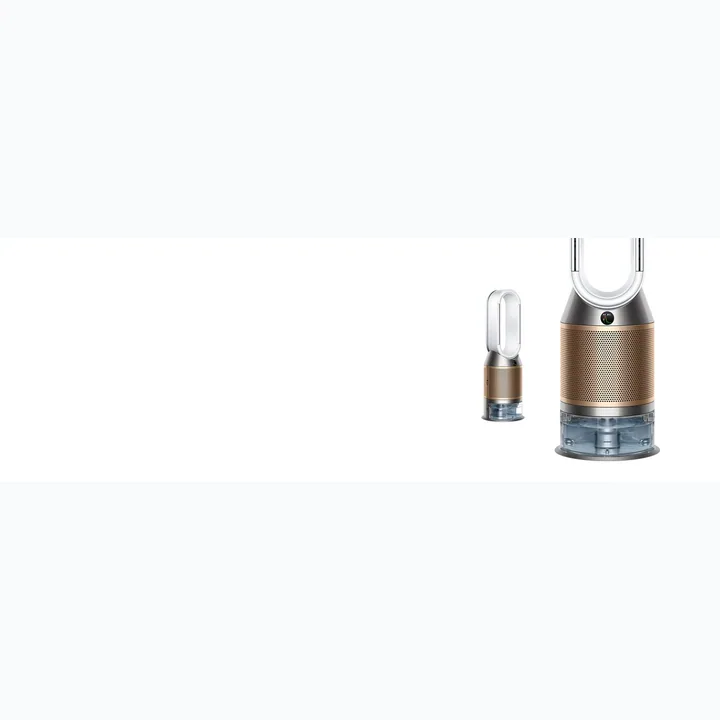
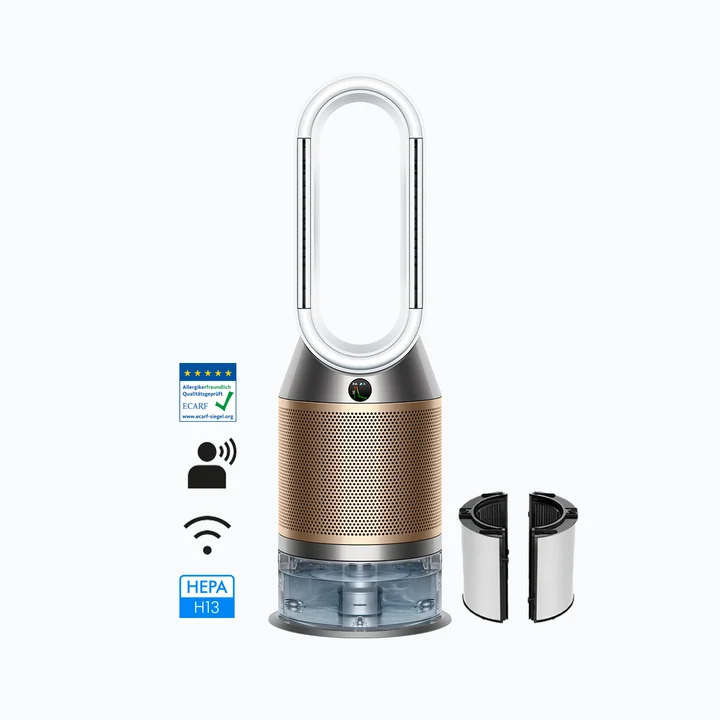
feat: improve product image coverage

diff --git a/scripts/sync-model-images.ts b/scripts/sync-model-images.ts
@@ -122,6 +122,8 @@ function extractMeta(html: string, pageUrl: string) {
 }
 
 const directImages: Record<string, string> = {
+  "roborock-s10-maxv-ultra":
+    "https://kr.roborock.com/cdn/shop/files/saros_20_sonic_White_ID.png?v=1769073475",
   "coway-ap-2219k":
     "https://img.danuri.io/catalog-image/868/298/010/ada7c912cfcc489fb3c8c8a5852e5b50.jpg",
   "coway-ap-1521b":
@@ -133,10 +135,14 @@ const directImages: Record<string, string> = {
   "dyson-hp09":
     "https://dyson-h.assetsadobe2.com/is/image/content/dam/dyson/leap-petite-global/products/ec/527e/variants/sco/HP09_WHSGLD_Primary_800x1200.png?fmt=png-alpha&scl=1",
   "dyson-tp09":
-    "https://dyson-h.assetsadobe2.com/is/image/content/dam/dyson/leap-petite-global/products/machine-first-testing/support/purifiers/tp09-support-banner.jpg?wid=1920",
+    "https://dyson-h.assetsadobe2.com/is/image/content/dam/dyson/leap-petite-global/markets/poland/product/ec/hero-locale/369876-01.png?fmt=png-alpha&scl=1",
   "dyson-ph04":
-    "https://dyson-h.assetsadobe2.com/is/image/content/dam/dyson/leap-petite-global/markets/korea/support/s-a/KR_Support_PH04.jpg?wid=1920",
+    "https://dyson-h.assetsadobe2.com/is/image/content/dam/dyson/leap-petite-global/markets/poland/product/ec/hero-locale/379491-01.png?fmt=png-alpha&scl=1",
   "skmagic-acl130z0skpn": "https://static.skmagic.com/image/goods/G000069281/G000069281_2.png",
+  "wells-al106": "https://www.kyowonwells.com/upload/product/202010/472179423.png",
+  "wells-an730": "https://www.kyowonwells.com/upload/product/202101/00218467608.png",
+  "wells-an734": "https://www.kyowonwells.com/upload/product/202101/00218467608.png",
+  "wells-am315": "https://www.kyowonwells.com/upload/product/202010/993350495.png",
   "wells-aq107": "https://www.kyowonwells.com/upload/product/202301/00789954532.png",
   "blueair-5240i": "https://cdn.shopify.com/s/files/1/0881/6030/5438/files/1_20_1.png?v=1734554713",
   "blueair-5210i": "https://cdn.shopify.com/s/files/1/0881/6030/5438/files/1_20_1.png?v=1734554713",
@@ -172,8 +178,17 @@ const directImages: Record<string, string> = {
     "https://kr.object.ncloudstorage.com/w2r-commerce-winix/product/202603/260311100459969-b292e5e1641142c0b7219a98549ee48b.png",
 };
 
-const excludedImageIds = new Set(["roborock-s10-maxv-ultra"]);
-const trimImageIds = new Set(["dreame-l10s-pro-ultra-heat"]);
+const excludedImageIds = new Set<string>();
+const trimImageIds = new Set([
+  "dreame-l10s-pro-ultra-heat",
+  "dyson-tp09",
+  "dyson-ph04",
+  "wells-al106",
+  "wells-an730",
+  "wells-an734",
+  "wells-am315",
+  "roborock-s10-maxv-ultra",
+]);
 
 const outputDir = path.resolve("public/images/models");
 await mkdir(outputDir, { recursive: true });
@@ -225,7 +240,12 @@ for (const model of models) {
     const input = Buffer.from(await imageResponse.arrayBuffer());
     const destination = path.join(outputDir, `${model.id}.webp`);
     const image = sharp(input).rotate();
-    if (trimImageIds.has(model.id)) image.trim({ background: "#ffffff", threshold: 10 });
+    if (trimImageIds.has(model.id)) {
+      image.flatten({ background: { r: 248, g: 250, b: 252 } }).trim({
+        background: { r: 248, g: 250, b: 252 },
+        threshold: 12,
+      });
+    }
     await image
       .resize(720, 720, {
         fit: "contain",

diff --git a/src/data/modelImages.ts b/src/data/modelImages.ts
@@ -143,13 +143,13 @@ export const modelImages: Record<string, ModelImage> = {
     src: "/images/models/dyson-tp09.webp",
     alt: "다이슨 TP09 제품 본체",
     sourceUrl: "https://www.dyson.co.kr/dyson-purifier-cool-formaldehyde-white-gold",
-    checkedAt: "2026-09-11",
+    checkedAt: "2026-09-20",
   },
   "dyson-ph04": {
     src: "/images/models/dyson-ph04.webp",
     alt: "다이슨 PH04 제품 본체",
     sourceUrl: "https://www.dyson.co.kr/dyson-purifier-humidify-cool-formaldehyde-white-gold",
-    checkedAt: "2026-09-11",
+    checkedAt: "2026-09-20",
   },
   "xiaomi-5-pro": {
     src: "/images/models/xiaomi-5-pro.webp",
@@ -215,19 +215,19 @@ export const modelImages: Record<string, ModelImage> = {
     src: "/images/models/wells-al106.webp",
     alt: "교원 웰스 AL106 제품 본체",
     sourceUrl: "https://m.kyowonwells.com/Product/Detail?grpIdx=47&productIdx=49",
-    checkedAt: "2026-09-11",
+    checkedAt: "2026-09-20",
   },
   "wells-an730": {
     src: "/images/models/wells-an730.webp",
     alt: "교원 웰스 AN730 제품 본체",
     sourceUrl: "https://m.kyowonwells.com/Product/Detail?grpIdx=182&productIdx=373",
-    checkedAt: "2026-09-11",
+    checkedAt: "2026-09-20",
   },
   "wells-an734": {
     src: "/images/models/wells-an734.webp",
     alt: "교원 웰스 AN734 제품 본체",
     sourceUrl: "https://m.kyowonwells.com/Product/Detail?grpIdx=182&productIdx=373",
-    checkedAt: "2026-09-11",
+    checkedAt: "2026-09-20",
   },
   "wells-aq107": {
     src: "/images/models/wells-aq107.webp",
@@ -239,7 +239,7 @@ export const modelImages: Record<string, ModelImage> = {
     src: "/images/models/wells-am315.webp",
     alt: "교원 웰스 AM315 제품 본체",
     sourceUrl: "https://m.kyowonwells.com/Product/Detail?grpIdx=49&productIdx=54",
-    checkedAt: "2026-09-11",
+    checkedAt: "2026-09-20",
   },
   "blueair-cp7i": {
     src: "/images/models/blueair-cp7i.webp",
@@ -277,6 +277,12 @@ export const modelImages: Record<string, ModelImage> = {
     sourceUrl:
       "https://kr.roborock.com/products/%EB%A1%9C%EB%B3%B4%EB%9D%BD-saros-z70-%EB%A1%9C%EB%B4%87%EC%B2%AD%EC%86%8C%EA%B8%B0",
     checkedAt: "2026-09-11",
+  },
+  "roborock-s10-maxv-ultra": {
+    src: "/images/models/roborock-s10-maxv-ultra.webp",
+    alt: "로보락 S10 MAXV ULTRA 제품 본체",
+    sourceUrl: "https://kr.roborock.com/pages/roborock-s10-maxv-ultra",
+    checkedAt: "2026-09-20",
   },
   "roborock-s8-maxv-ultra": {
     src: "/images/models/roborock-s8-maxv-ultra.webp",

diff --git a/tests/modelImages.test.ts b/tests/modelImages.test.ts
@@ -5,14 +5,12 @@ import { describe, expect, it } from "vitest";
 import { modelImages } from "../src/data/modelImages";
 import { models } from "../src/data/models";
 
-const documentedExceptionIds = new Set(["roborock-s10-maxv-ultra"]);
-
 describe("model images", () => {
   it("검증된 본체 이미지를 모델에 연결하고 확인하지 못한 모델만 제외한다", () => {
     const missingIds = models.filter((model) => !model.image).map((model) => model.id);
 
-    expect(missingIds).toEqual([...documentedExceptionIds]);
-    expect(Object.keys(modelImages)).toHaveLength(models.length - documentedExceptionIds.size);
+    expect(missingIds).toEqual([]);
+    expect(Object.keys(modelImages)).toHaveLength(models.length);
   });
 
   it("모든 이미지 메타데이터가 로컬 WebP와 출처 확인일을 제공한다", async () => {
@@ -27,8 +25,8 @@ describe("model images", () => {
         await access(imagePath);
         const metadata = await sharp(imagePath).metadata();
         expect(metadata.format).toBe("webp");
-        expect(metadata.width).toBeLessThanOrEqual(720);
-        expect(metadata.height).toBeLessThanOrEqual(720);
+        expect(metadata.width).toBe(720);
+        expect(metadata.height).toBe(720);
       }),
     );
   });
